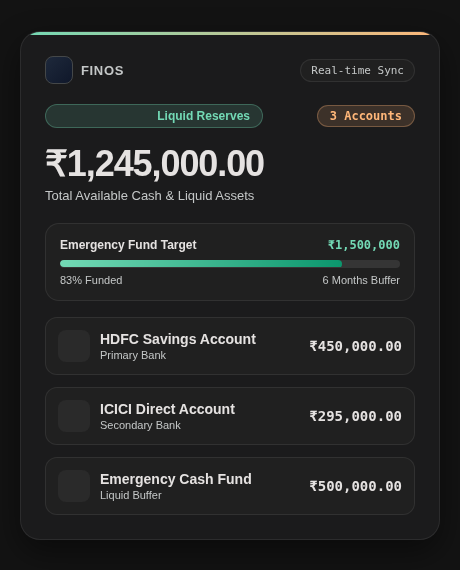
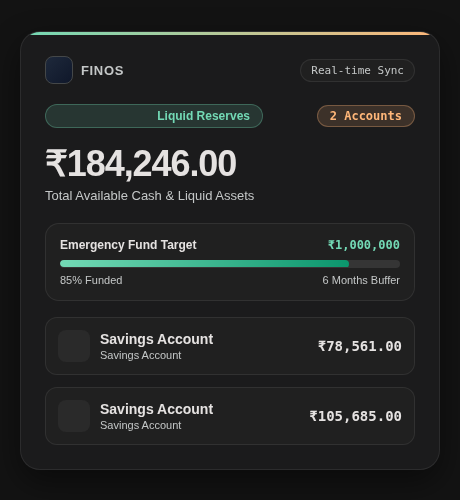
fix(filters): update filters.Document.MIMEType to filters.Document.PDF

diff --git a/previews/portfolio_card.html b/previews/portfolio_card.html
@@ -276,11 +276,11 @@
       <span class="material-symbols-outlined" style="font-size: 14px;">trending_up</span>
       Net Portfolio
     </span>
-    <span class="pill-tag pill-mint" style="font-family: var(--font-mono);">+2.4% MoM</span>
+    <span class="pill-tag pill-mint" style="font-family: var(--font-mono);">+6.749124749077075% MoM</span>
   </div>
 
   <div style="margin-top: 16px;">
-    <div class="metric-value">₹4,820,500.00</div>
+    <div class="metric-value">₹201,545.55</div>
     <div class="metric-subtitle">Investments, SIPs & Sovereign Assets</div>
   </div>
 
@@ -301,11 +301,11 @@
             </span>
           </div>
           <div>
-            <div class="item-label">Mutual Funds</div>
-            <div class="item-sublabel">59.1% of Total Assets</div>
+            <div class="item-label">Mutual Funds &amp; SIPs</div>
+            <div class="item-sublabel">45.9% of Total Assets</div>
           </div>
         </div>
-        <div class="item-amount">₹2,850,000.00</div>
+        <div class="item-amount">₹92,528.42</div>
       </div>
       
       <div class="item-row">
@@ -316,27 +316,11 @@
             </span>
           </div>
           <div>
-            <div class="item-label">Indian Direct Equities</div>
-            <div class="item-sublabel">25.7% of Total Assets</div>
+            <div class="item-label">Bonds &amp; Debt</div>
+            <div class="item-sublabel">49.3% of Total Assets</div>
           </div>
         </div>
-        <div class="item-amount">₹1,240,500.00</div>
-      </div>
-      
-      <div class="item-row">
-        <div style="display: flex; align-items: center; gap: 10px;">
-          <div style="width: 32px; height: 32px; background-color: var(--surface-container-high); border-radius: 8px; display: flex; align-items: center; justify-content: center; color: var(--secondary-gold);">
-            <span class="material-symbols-outlined" style="font-size: 18px;">
-              workspace_premium
-              
-            </span>
-          </div>
-          <div>
-            <div class="item-label">Sovereign Gold Bonds</div>
-            <div class="item-sublabel">15.2% of Total Assets</div>
-          </div>
-        </div>
-        <div class="item-amount">₹730,000.00</div>
+        <div class="item-amount">₹99,306.00</div>
       </div>
       
     </div>
@@ -347,23 +331,33 @@
   <div style="margin-top: 20px; background-color: var(--surface-container); padding: 14px; border-radius: 14px; border: 1px solid var(--outline-subtle);">
     <div style="display: flex; justify-content: space-between; align-items: center; font-size: 12px; font-weight: 600; margin-bottom: 8px;">
       <span style="color: var(--on-surface);">Active Monthly SIPs</span>
-      <span style="color: var(--soft-mint); font-family: var(--font-mono);">₹35,000/mo</span>
+      <span style="color: var(--soft-mint); font-family: var(--font-mono);">₹13,000/mo</span>
     </div>
     <div style="display: flex; flex-direction: column; gap: 6px;">
       
       <div style="display: flex; justify-content: space-between; font-size: 12px; color: var(--on-surface-variant);">
-        <span>Parag Parikh Flexi Cap</span>
-        <span style="font-family: var(--font-mono); color: var(--on-surface);">₹15,000</span>
+        <span>ICICI Prudential Gold ETF FoF Direct Growth</span>
+        <span style="font-family: var(--font-mono); color: var(--on-surface);">₹1,500</span>
       </div>
       
       <div style="display: flex; justify-content: space-between; font-size: 12px; color: var(--on-surface-variant);">
-        <span>Mirae Asset Large Cap</span>
-        <span style="font-family: var(--font-mono); color: var(--on-surface);">₹10,000</span>
+        <span>ICICI Prudential NASDAQ 100 Index Fund Direct Growth</span>
+        <span style="font-family: var(--font-mono); color: var(--on-surface);">₹2,250</span>
       </div>
       
       <div style="display: flex; justify-content: space-between; font-size: 12px; color: var(--on-surface-variant);">
-        <span>Nippon India Small Cap</span>
-        <span style="font-family: var(--font-mono); color: var(--on-surface);">₹10,000</span>
+        <span>WhiteOak Capital Mid Cap Fund Direct Growth</span>
+        <span style="font-family: var(--font-mono); color: var(--on-surface);">₹3,000</span>
+      </div>
+      
+      <div style="display: flex; justify-content: space-between; font-size: 12px; color: var(--on-surface-variant);">
+        <span>Invesco India Smallcap Fund Direct Growth</span>
+        <span style="font-family: var(--font-mono); color: var(--on-surface);">₹2,250</span>
+      </div>
+      
+      <div style="display: flex; justify-content: space-between; font-size: 12px; color: var(--on-surface-variant);">
+        <span>Navi Nifty 50 Index Fund Direct Growth</span>
+        <span style="font-family: var(--font-mono); color: var(--on-surface);">₹4,000</span>
       </div>
       
     </div>

diff --git a/previews/spending_card.html b/previews/spending_card.html
@@ -280,7 +280,7 @@
   </div>
 
   <div style="margin-top: 16px;">
-    <div class="metric-value">₹637.00</div>
+    <div class="metric-value">₹1,835.57</div>
     <div class="metric-subtitle">
       Billing Cycle Spending (25th Cutoff Rule)
     </div>
@@ -292,23 +292,39 @@
   <div style="margin-top: 20px; background-color: var(--surface-container); padding: 14px; border-radius: 14px; border: 1px solid var(--outline-subtle);">
     <div style="display: flex; justify-content: space-between; align-items: center; font-size: 12px; font-weight: 600;">
       <span style="color: var(--on-surface);">Monthly Budget Usage</span>
-      <span style="color: var(--secondary-gold); font-family: var(--font-mono);">₹637 / ₹50,000</span>
+      <span style="color: var(--secondary-gold); font-family: var(--font-mono);">₹1,836 / ₹16,850</span>
     </div>
     <div class="progress-bar-container">
-      <div class="progress-bar-fill" style="width: 1.3%; background: linear-gradient(90deg, var(--soft-mint), var(--secondary-gold));"></div>
+      <div class="progress-bar-fill" style="width: 10.9%; background: linear-gradient(90deg, var(--soft-mint), var(--secondary-gold));"></div>
     </div>
     <div style="display: flex; justify-content: space-between; margin-top: 6px; font-size: 11px; color: var(--on-surface-variant);">
-      <span>1.3% of Monthly Cap</span>
-      <span>₹49,363 Remaining</span>
+      <span>10.9% of Monthly Cap</span>
+      <span>₹15,014 Remaining</span>
     </div>
   </div>
 
   <!-- Category Breakdown List -->
   <div style="margin-top: 20px;">
     <div style="font-size: 13px; font-weight: 700; text-transform: uppercase; letter-spacing: 0.05em; color: var(--on-surface-variant); margin-bottom: 12px;">
-      Category Breakdown (3)
+      Category Breakdown (4)
     </div>
     <div class="item-list" style="margin-top: 0;">
+      
+      
+      <div class="item-row" style="flex-direction: column; align-items: stretch; gap: 8px;">
+        <div style="display: flex; justify-content: space-between; align-items: center;">
+          <div style="display: flex; align-items: center; gap: 8px;">
+            <span class="material-symbols-outlined" style="font-size: 16px; color: var(--soft-mint);">
+              category
+            </span>
+            <span class="item-label">Transport</span>
+          </div>
+          <div class="item-amount">₹958.57</div>
+        </div>
+        <div class="progress-bar-container" style="height: 4px; margin-top: 0;">
+          <div class="progress-bar-fill" style="width: 52.2%; background-color: var(--soft-mint);"></div>
+        </div>
+      </div>
       
       
       <div class="item-row" style="flex-direction: column; align-items: stretch; gap: 8px;">
@@ -320,10 +336,10 @@
             </span>
             <span class="item-label">Eating Out</span>
           </div>
-          <div class="item-amount">₹182.00</div>
+          <div class="item-amount">₹512.00</div>
         </div>
         <div class="progress-bar-container" style="height: 4px; margin-top: 0;">
-          <div class="progress-bar-fill" style="width: 28.6%; background-color: var(--soft-mint);"></div>
+          <div class="progress-bar-fill" style="width: 27.9%; background-color: var(--soft-mint);"></div>
         </div>
       </div>
       
@@ -332,15 +348,14 @@
         <div style="display: flex; justify-content: space-between; align-items: center;">
           <div style="display: flex; align-items: center; gap: 8px;">
             <span class="material-symbols-outlined" style="font-size: 16px; color: var(--soft-mint);">
-              shopping_bag
-              
+              category
             </span>
-            <span class="item-label">Groceries</span>
+            <span class="item-label">Money Transfer</span>
           </div>
-          <div class="item-amount">₹255.00</div>
+          <div class="item-amount">₹300.00</div>
         </div>
         <div class="progress-bar-container" style="height: 4px; margin-top: 0;">
-          <div class="progress-bar-fill" style="width: 40.0%; background-color: var(--soft-mint);"></div>
+          <div class="progress-bar-fill" style="width: 16.3%; background-color: var(--soft-mint);"></div>
         </div>
       </div>
       
@@ -354,10 +369,10 @@
             </span>
             <span class="item-label">Shopping</span>
           </div>
-          <div class="item-amount">₹200.00</div>
+          <div class="item-amount">₹65.00</div>
         </div>
         <div class="progress-bar-container" style="height: 4px; margin-top: 0;">
-          <div class="progress-bar-fill" style="width: 31.4%; background-color: var(--soft-mint);"></div>
+          <div class="progress-bar-fill" style="width: 3.5%; background-color: var(--soft-mint);"></div>
         </div>
       </div>
       

diff --git a/previews/balance_card.html b/previews/balance_card.html
@@ -276,11 +276,11 @@
       <span class="material-symbols-outlined" style="font-size: 14px;">account_balance</span>
       Liquid Reserves
     </span>
-    <span class="pill-tag pill-gold" style="font-family: var(--font-mono);">3 Accounts</span>
+    <span class="pill-tag pill-gold" style="font-family: var(--font-mono);">2 Accounts</span>
   </div>
 
   <div style="margin-top: 16px;">
-    <div class="metric-value">₹1,245,000.00</div>
+    <div class="metric-value">₹184,246.00</div>
     <div class="metric-subtitle">Total Available Cash & Liquid Assets</div>
   </div>
 
@@ -288,13 +288,13 @@
   <div style="margin-top: 20px; background-color: var(--surface-container); padding: 14px; border-radius: 14px; border: 1px solid var(--outline-subtle);">
     <div style="display: flex; justify-content: space-between; align-items: center; font-size: 12px; font-weight: 600;">
       <span style="color: var(--on-surface);">Emergency Fund Target</span>
-      <span style="color: var(--soft-mint); font-family: var(--font-mono);">₹1,500,000</span>
+      <span style="color: var(--soft-mint); font-family: var(--font-mono);">₹1,000,000</span>
     </div>
     <div class="progress-bar-container">
-      <div class="progress-bar-fill" style="width: 83%; background: linear-gradient(90deg, var(--soft-mint), #0b966d);"></div>
+      <div class="progress-bar-fill" style="width: 85%; background: linear-gradient(90deg, var(--soft-mint), #0b966d);"></div>
     </div>
     <div style="display: flex; justify-content: space-between; margin-top: 6px; font-size: 11px; color: var(--on-surface-variant);">
-      <span>83% Funded</span>
+      <span>85% Funded</span>
       <span>6 Months Buffer</span>
     </div>
   </div>
@@ -306,48 +306,30 @@
       <div style="display: flex; align-items: center; gap: 10px;">
         <div style="width: 32px; height: 32px; background-color: var(--surface-container-high); border-radius: 8px; display: flex; align-items: center; justify-content: center; color: var(--soft-mint);">
           <span class="material-symbols-outlined" style="font-size: 18px;">
-            account_balance
-            
+            payments
           </span>
         </div>
         <div>
-          <div class="item-label">HDFC Savings Account</div>
-          <div class="item-sublabel">Primary Bank</div>
+          <div class="item-label">Savings Account</div>
+          <div class="item-sublabel">Savings Account</div>
         </div>
       </div>
-      <div class="item-amount">₹450,000.00</div>
+      <div class="item-amount">₹78,561.00</div>
     </div>
     
     <div class="item-row">
       <div style="display: flex; align-items: center; gap: 10px;">
         <div style="width: 32px; height: 32px; background-color: var(--surface-container-high); border-radius: 8px; display: flex; align-items: center; justify-content: center; color: var(--soft-mint);">
           <span class="material-symbols-outlined" style="font-size: 18px;">
-            credit_card
-            
+            payments
           </span>
         </div>
         <div>
-          <div class="item-label">ICICI Direct Account</div>
-          <div class="item-sublabel">Secondary Bank</div>
+          <div class="item-label">Savings Account</div>
+          <div class="item-sublabel">Savings Account</div>
         </div>
       </div>
-      <div class="item-amount">₹295,000.00</div>
-    </div>
-    
-    <div class="item-row">
-      <div style="display: flex; align-items: center; gap: 10px;">
-        <div style="width: 32px; height: 32px; background-color: var(--surface-container-high); border-radius: 8px; display: flex; align-items: center; justify-content: center; color: var(--soft-mint);">
-          <span class="material-symbols-outlined" style="font-size: 18px;">
-            savings
-            
-          </span>
-        </div>
-        <div>
-          <div class="item-label">Emergency Cash Fund</div>
-          <div class="item-sublabel">Liquid Buffer</div>
-        </div>
-      </div>
-      <div class="item-amount">₹500,000.00</div>
+      <div class="item-amount">₹105,685.00</div>
     </div>
     
   </div>

diff --git a/api/index.py b/api/index.py
@@ -54,7 +54,7 @@ def get_telegram_app() -> Application:
         _app_instance.add_handler(CommandHandler("portfolio", portfolio_command))
         _app_instance.add_handler(CommandHandler("digest", digest_command))
         _app_instance.add_handler(CommandHandler("undo", undo_command))
-        _app_instance.add_handler(MessageHandler(filters.Document.MIMEType("application/pdf"), handle_pdf_document))
+        _app_instance.add_handler(MessageHandler(filters.Document.PDF, handle_pdf_document))
         _app_instance.add_handler(CallbackQueryHandler(callback_open_month_picker, pattern="^spend_pick:open$"))
         _app_instance.add_handler(CallbackQueryHandler(callback_select_spending_month, pattern="^spend_month:"))
         _app_instance.add_handler(CallbackQueryHandler(callback_batch_save, pattern="^batch:save$"))

diff --git a/bot/main.py b/bot/main.py
@@ -185,7 +185,7 @@ def main() -> None:
     from telegram.ext import filters, MessageHandler
     from bot.handlers.expense import handle_pdf_document, callback_batch_save, callback_batch_cancel
 
-    app.add_handler(MessageHandler(filters.Document.MIMEType("application/pdf"), handle_pdf_document))
+    app.add_handler(MessageHandler(filters.Document.PDF, handle_pdf_document))
 
     # Inline Keyboard Callbacks for Month Picker & Batch PDF Save
     app.add_handler(CallbackQueryHandler(callback_open_month_picker, pattern="^spend_pick:open$"))
